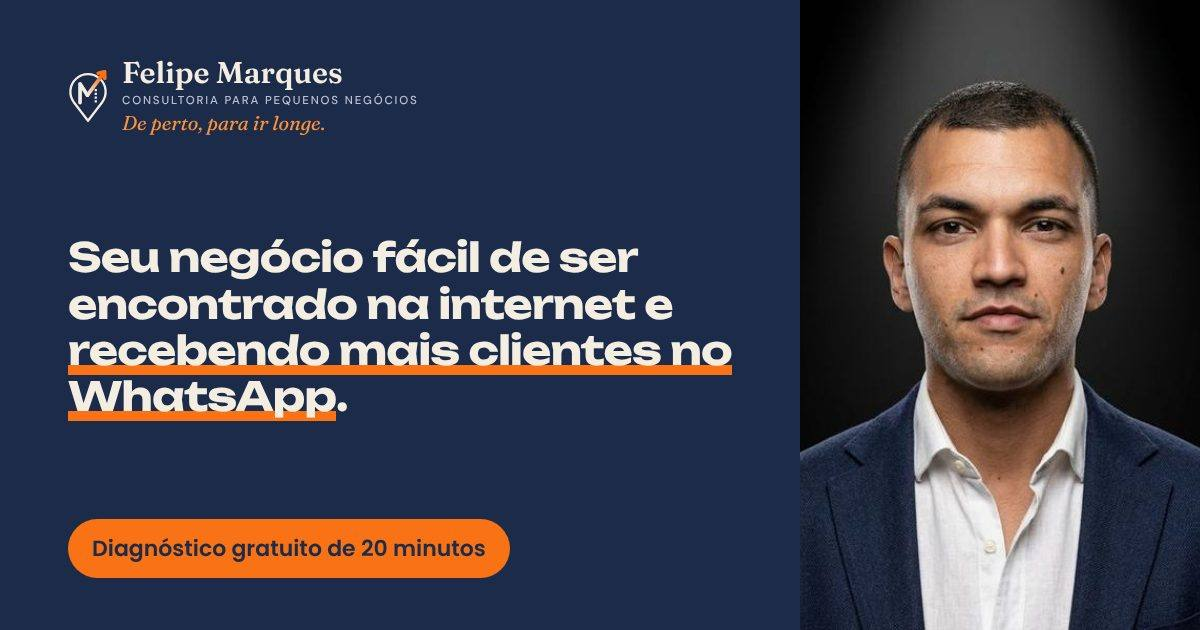
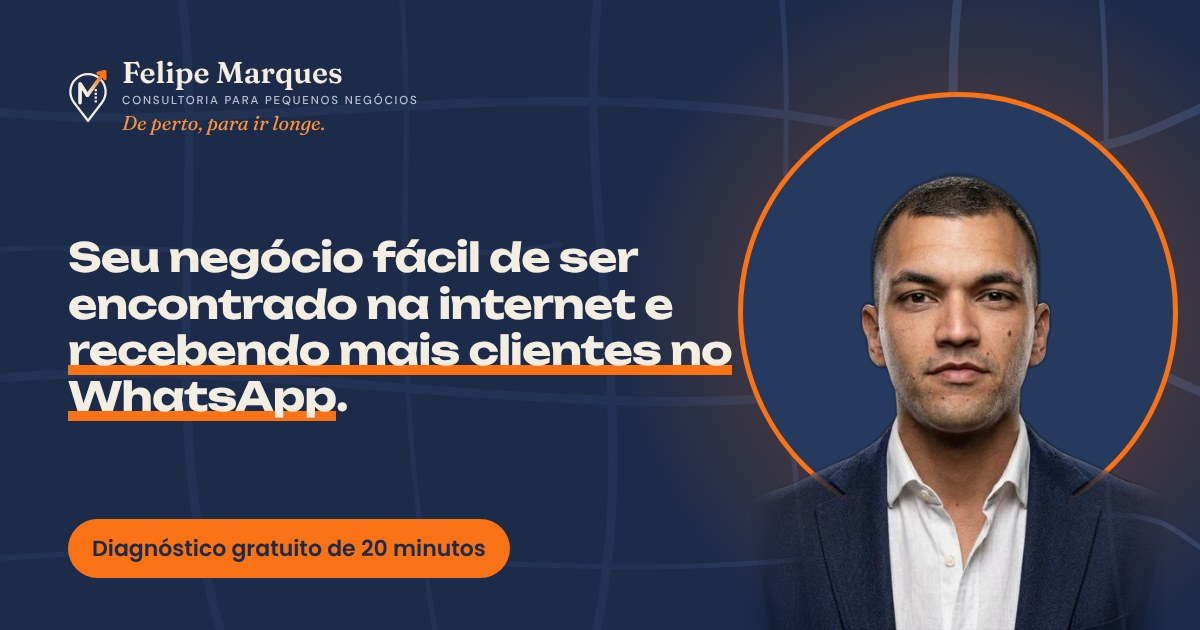
Imagem de compartilhamento nova: mapa sutil, pin com contorno laranja e brilho atrás da foto
Endereço da imagem com ?v=2 para o WhatsApp e as redes buscarem a versão nova.

Claude-Session: https://claude.ai/code/session_01GxkCX5cfxB46zdkTsUZ8nU

diff --git a/index.html b/index.html
@@ -35,19 +35,19 @@
 <meta property="og:title" content="Seu negócio fácil de ser encontrado na internet e recebendo mais clientes no WhatsApp">
 <meta property="og:description" content="De perto, para ir longe. Consultoria para pequenos negócios com diagnóstico gratuito de 20 minutos, sem compromisso.">
 <meta property="og:url" content="https://www.fmarquestbg.com.br/">
-<meta property="og:image" content="https://www.fmarquestbg.com.br/img/og.jpg">
+<meta property="og:image" content="https://www.fmarquestbg.com.br/img/og.jpg?v=2">
 <meta property="og:image:width" content="1200">
 <meta property="og:image:height" content="630">
 <meta property="og:image:alt" content="Felipe Marques, consultoria para pequenos negócios: seu negócio fácil de ser encontrado na internet e recebendo mais clientes no WhatsApp.">
 <meta name="twitter:card" content="summary_large_image">
 <meta name="twitter:title" content="Seu negócio fácil de ser encontrado na internet e recebendo mais clientes no WhatsApp">
 <meta name="twitter:description" content="De perto, para ir longe. Diagnóstico gratuito de 20 minutos, sem compromisso.">
-<meta name="twitter:image" content="https://www.fmarquestbg.com.br/img/og.jpg">
+<meta name="twitter:image" content="https://www.fmarquestbg.com.br/img/og.jpg?v=2">
 <link rel="preconnect" href="https://fonts.googleapis.com">
 <link rel="preconnect" href="https://fonts.gstatic.com" crossorigin>
 <link rel="stylesheet" href="https://fonts.googleapis.com/css2?family=Poppins:wght@400;500;600&family=Unbounded:wght@500;700&family=Fraunces:ital,opsz,wght@0,9..144,600;1,9..144,400&family=DM+Sans:wght@500;600&display=swap">
 <link rel="stylesheet" href="/src/style.css">
-<script type="application/ld+json">{"@context": "https://schema.org", "@type": "ProfessionalService", "name": "Felipe Marques · Consultoria para pequenos negócios", "url": "https://www.fmarquestbg.com.br/", "image": "https://www.fmarquestbg.com.br/img/og.jpg", "logo": "https://www.fmarquestbg.com.br/img/logo-512.png", "description": "Consultoria para pequenos negócios: perfil no Google, site com WhatsApp, organização financeira e captação de clientes. Seu negócio fácil de ser encontrado na internet e recebendo mais clientes no WhatsApp. Felipe Marques, de Duque de Caxias (RJ).", "telephone": "+55-21-97682-2900", "areaServed": {"@type": "Country", "name": "Brasil"}, "founder": {"@type": "Person", "name": "Felipe Marques", "sameAs": ["https://www.instagram.com/fmarquestbg/"], "image": "https://www.fmarquestbg.com.br/img/felipe.jpg"}, "sameAs": ["https://www.instagram.com/fmarquestbg/"], "priceRange": "R$ 350 a R$ 990", "hasOfferCatalog": {"@type": "OfferCatalog", "name": "Pacotes", "itemListElement": [{"@type": "Offer", "name": "Presença no Google", "price": "350", "priceCurrency": "BRL", "description": "Criação ou correção do perfil no Google, pagamento único."}, {"@type": "Offer", "name": "Vitrine Digital", "price": "990", "priceCurrency": "BRL", "description": "Site de uma página com botão de WhatsApp e perfil no Google. Implantação de R$ 990 mais R$ 119 por mês."}, {"@type": "Offer", "name": "Negócio Organizado", "price": "990", "priceCurrency": "BRL", "description": "Tudo da Vitrine Digital, orientação financeira e captação de clientes. Implantação de R$ 990 mais R$ 219 por mês."}]}, "address": {"@type": "PostalAddress", "addressLocality": "Duque de Caxias", "addressRegion": "RJ", "addressCountry": "BR"}, "slogan": "De perto, para ir longe."}</script>
+<script type="application/ld+json">{"@context": "https://schema.org", "@type": "ProfessionalService", "name": "Felipe Marques · Consultoria para pequenos negócios", "url": "https://www.fmarquestbg.com.br/", "image": "https://www.fmarquestbg.com.br/img/og.jpg?v=2", "logo": "https://www.fmarquestbg.com.br/img/logo-512.png", "description": "Consultoria para pequenos negócios: perfil no Google, site com WhatsApp, organização financeira e captação de clientes. Seu negócio fácil de ser encontrado na internet e recebendo mais clientes no WhatsApp. Felipe Marques, de Duque de Caxias (RJ).", "telephone": "+55-21-97682-2900", "areaServed": {"@type": "Country", "name": "Brasil"}, "founder": {"@type": "Person", "name": "Felipe Marques", "sameAs": ["https://www.instagram.com/fmarquestbg/"], "image": "https://www.fmarquestbg.com.br/img/felipe.jpg"}, "sameAs": ["https://www.instagram.com/fmarquestbg/"], "priceRange": "R$ 350 a R$ 990", "hasOfferCatalog": {"@type": "OfferCatalog", "name": "Pacotes", "itemListElement": [{"@type": "Offer", "name": "Presença no Google", "price": "350", "priceCurrency": "BRL", "description": "Criação ou correção do perfil no Google, pagamento único."}, {"@type": "Offer", "name": "Vitrine Digital", "price": "990", "priceCurrency": "BRL", "description": "Site de uma página com botão de WhatsApp e perfil no Google. Implantação de R$ 990 mais R$ 119 por mês."}, {"@type": "Offer", "name": "Negócio Organizado", "price": "990", "priceCurrency": "BRL", "description": "Tudo da Vitrine Digital, orientação financeira e captação de clientes. Implantação de R$ 990 mais R$ 219 por mês."}]}, "address": {"@type": "PostalAddress", "addressLocality": "Duque de Caxias", "addressRegion": "RJ", "addressCountry": "BR"}, "slogan": "De perto, para ir longe."}</script>
 <script type="application/ld+json">{"@context": "https://schema.org", "@type": "FAQPage", "mainEntity": [{"@type": "Question", "name": "Preciso entender de tecnologia?", "acceptedAnswer": {"@type": "Answer", "text": "Não. Você me conta como funciona seu negócio e eu cuido da parte técnica."}}, {"@type": "Question", "name": "Você atende fora do Rio?", "acceptedAnswer": {"@type": "Answer", "text": "Sim. Sou de Duque de Caxias (RJ) e atendo negócios de todo o Brasil."}}, {"@type": "Question", "name": "Como é o diagnóstico gratuito?", "acceptedAnswer": {"@type": "Answer", "text": "Uma conversa de 20 minutos, por videochamada ou ligação. Eu olho como seu negócio aparece hoje e te mostro por onde começar. Você não tem obrigação de contratar nada."}}, {"@type": "Question", "name": "Funciona para o meu tipo de negócio?", "acceptedAnswer": {"@type": "Answer", "text": "Se você atende clientes e quer ser encontrado, funciona: salão, confeitaria, loja, assistência técnica, prestador de serviço e muito mais."}}, {"@type": "Question", "name": "Quem vai me atender?", "acceptedAnswer": {"@type": "Answer", "text": "Eu mesmo, do começo ao fim."}}, {"@type": "Question", "name": "Qual o prazo de entrega?", "acceptedAnswer": {"@type": "Answer", "text": "Depende do pacote e de quando você me manda as fotos e as informações do negócio. No diagnóstico gratuito eu te passo o prazo certinho, por escrito, antes de você decidir. A verificação do perfil no Google pode levar alguns dias a mais, porque depende do próprio Google."}}, {"@type": "Question", "name": "Já tenho Instagram. Preciso de site?", "acceptedAnswer": {"@type": "Answer", "text": "O Instagram é como uma loja alugada: as regras mudam e o alcance cai. O site é seu, aparece no Google e leva a cliente direto para o seu WhatsApp."}}, {"@type": "Question", "name": "Já tenho site. Você melhora?", "acceptedAnswer": {"@type": "Answer", "text": "Depende de como ele está. No diagnóstico gratuito eu olho o seu site e digo com sinceridade se dá para ajustar o que já existe ou se vale fazer um novo, de uma página, ligado ao seu WhatsApp. Se o site já estiver bom, dá para começar só pela Presença no Google."}}, {"@type": "Question", "name": "Tem custo escondido?", "acceptedAnswer": {"@type": "Answer", "text": "Não. Hospedagem, endereço do site e manutenção já estão na mensalidade."}}, {"@type": "Question", "name": "Posso parcelar?", "acceptedAnswer": {"@type": "Answer", "text": "Sim, em até 10x no cartão de crédito. Taxas do cartão à parte."}}, {"@type": "Question", "name": "Tem fidelidade? Como faço para cancelar?", "acceptedAnswer": {"@type": "Answer", "text": "Não tem fidelidade. Nos pacotes com mensalidade, você cancela quando quiser: é só me avisar pelo WhatsApp com 30 dias de antecedência, sem multa."}}, {"@type": "Question", "name": "O site fica no meu nome?", "acceptedAnswer": {"@type": "Answer", "text": "Sim. O endereço do site é registrado no seu nome e é seu."}}, {"@type": "Question", "name": "Faz anúncios pagos?", "acceptedAnswer": {"@type": "Answer", "text": "Ainda não ofereço anúncio como serviço. Primeiro eu deixo o básico funcionando: quem procura acha o seu negócio e fala com você no WhatsApp. Anúncio antes disso gasta dinheiro trazendo gente para uma porta fechada. Quando fizer sentido para o seu negócio, a gente conversa."}}, {"@type": "Question", "name": "Você garante resultado?", "acceptedAnswer": {"@type": "Answer", "text": "Não prometo números que não posso controlar. Eu mostro o antes e depois do seu negócio e acompanho a evolução com você."}}]}</script>
 </head>
 <body>
